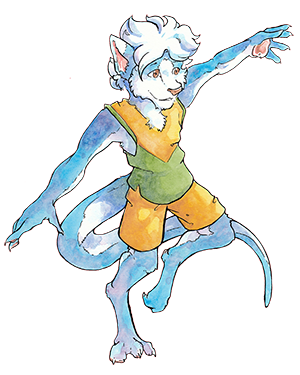
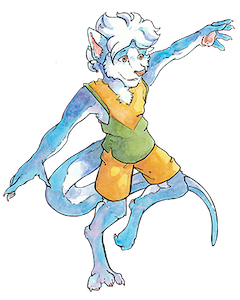
shrunk some new built-in costumes, to make them load faster

diff --git a/HISTORY.md b/HISTORY.md
@@ -46,6 +46,7 @@
     * don't show "result pic" option in block context menu with "click-to-run" disabled
     * enable JavaScript extensions when running Snap! locally without a webserver (location.protocoll "file:")
     * enable "JavaScript function" primitive to be hidden / shown independently from enabling JavaScript extensions
+    * shrunk some new built-in costumes, to make them load faster
 * **Notable Fixes:**
     * fixed refactoring (renaming) variables (I hope, haha!)
     * fixed retaining transience when renaming a global or sprite-local variable
@@ -88,6 +89,9 @@
     * Catalan, thanks, Joan!
     * Dutch, thanks, Hans!
     * Brazilian Portuguese, thanks, Artur!
+
+### 2023-10-29
+* shrunk some new built-in costumes, to make them load faster
 
 ### 2023-10-27
 * threads: show intermediate results when debugging a script, i.e. when clicking on a script in visible stepping mode. Thanks, Vic!
